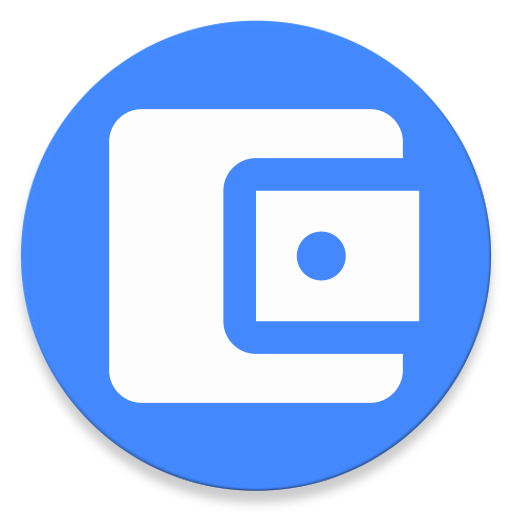
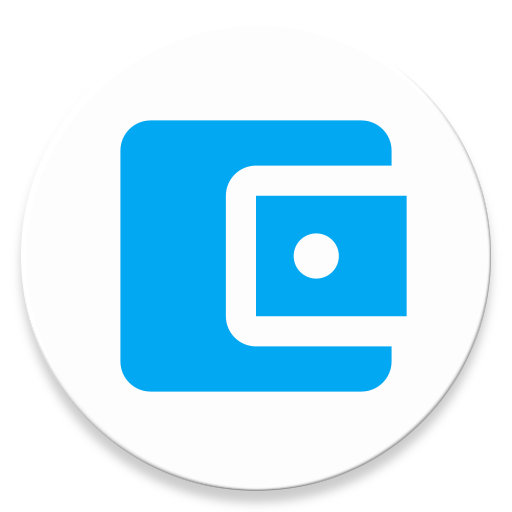
Adicionada a tela de Splash; Mudanças no icone principal do APP; Mudanças no nome do App;

diff --git a/app/src/main/java/br/com/newoutsourcing/walletofclients/Views/Activitys/SplashActivity.java b/app/src/main/java/br/com/newoutsourcing/walletofclients/Views/Activitys/SplashActivity.java
@@ -1,0 +1,28 @@
+package br.com.newoutsourcing.walletofclients.Views.Activitys;
+
+import android.os.Handler;
+import android.support.v7.app.AppCompatActivity;
+import android.os.Bundle;
+
+import br.com.newoutsourcing.walletofclients.App.FunctionsApp;
+import br.com.newoutsourcing.walletofclients.R;
+
+public class SplashActivity extends AppCompatActivity {
+
+    @Override
+    protected void onCreate(Bundle savedInstanceState) {
+        super.onCreate(savedInstanceState);
+        this.setContentView(R.layout.activity_splash);
+        this.onStartActivity();
+    }
+
+    private void onStartActivity(){
+        new Handler().postDelayed(new Runnable() {
+            @Override
+            public void run() {
+                FunctionsApp.startActivity(SplashActivity.this,ListClientActivity.class,null);
+                FunctionsApp.closeActivity(SplashActivity.this);
+            }
+        },3000);
+    }
+}

diff --git a/app/src/main/java/br/com/newoutsourcing/walletofclients/Views/Fragments/LegalPersonFragment.java b/app/src/main/java/br/com/newoutsourcing/walletofclients/Views/Fragments/LegalPersonFragment.java
@@ -48,7 +48,7 @@ public class LegalPersonFragment extends Fragment {
     }
 
     private void loadConfigurationToView(View view){
-        this.idToolbar = getActivity().findViewById(R.id.idToolbar);
+        this.idToolbar = this.getActivity().findViewById(R.id.idToolbar);
         this.idTxwClientPJDescriptionData = view.findViewById(R.id.idTxwClientPJDescriptionData);
         this.idEdtClientPJSocialName = view.findViewById(R.id.idEdtClientPJSocialName);
         this.idEdtClientPJFantasyName = view.findViewById(R.id.idEdtClientPJFantasyName);

diff --git a/app/src/main/java/br/com/newoutsourcing/walletofclients/App/FunctionsApp.java b/app/src/main/java/br/com/newoutsourcing/walletofclients/App/FunctionsApp.java
@@ -45,7 +45,7 @@ public class FunctionsApp {
                 .setNeutralButton(mensagemBotao, null).show();
     }
 
-    public static void iniciarFragment(Fragment fragment, int id, FragmentManager fragmentManager){
+    public static void startFragment(Fragment fragment, int id, FragmentManager fragmentManager){
         FragmentTransaction fragmentTransaction = fragmentManager.beginTransaction();
         fragmentTransaction.replace(id,fragment);
         fragmentTransaction.setTransition(FragmentTransaction.TRANSIT_FRAGMENT_OPEN);

diff --git a/app/src/main/java/br/com/newoutsourcing/walletofclients/Views/Fragments/PhysicalPersonFragment.java b/app/src/main/java/br/com/newoutsourcing/walletofclients/Views/Fragments/PhysicalPersonFragment.java
@@ -51,7 +51,7 @@ public class PhysicalPersonFragment extends Fragment {
     }
 
     private void LoadConfigurationToView(View view){
-        this.idToolbar = getActivity().findViewById(R.id.idToolbar);
+        this.idToolbar = this.getActivity().findViewById(R.id.idToolbar);
         this.idTxwClientPFDescriptionData = view.findViewById(R.id.idTxwClientPFDescriptionData);
         this.idEdtClientPFName = view.findViewById(R.id.idEdtClientPFName);
         this.idEdtClientPFNickName = view.findViewById(R.id.idEdtClientPFNickName);
